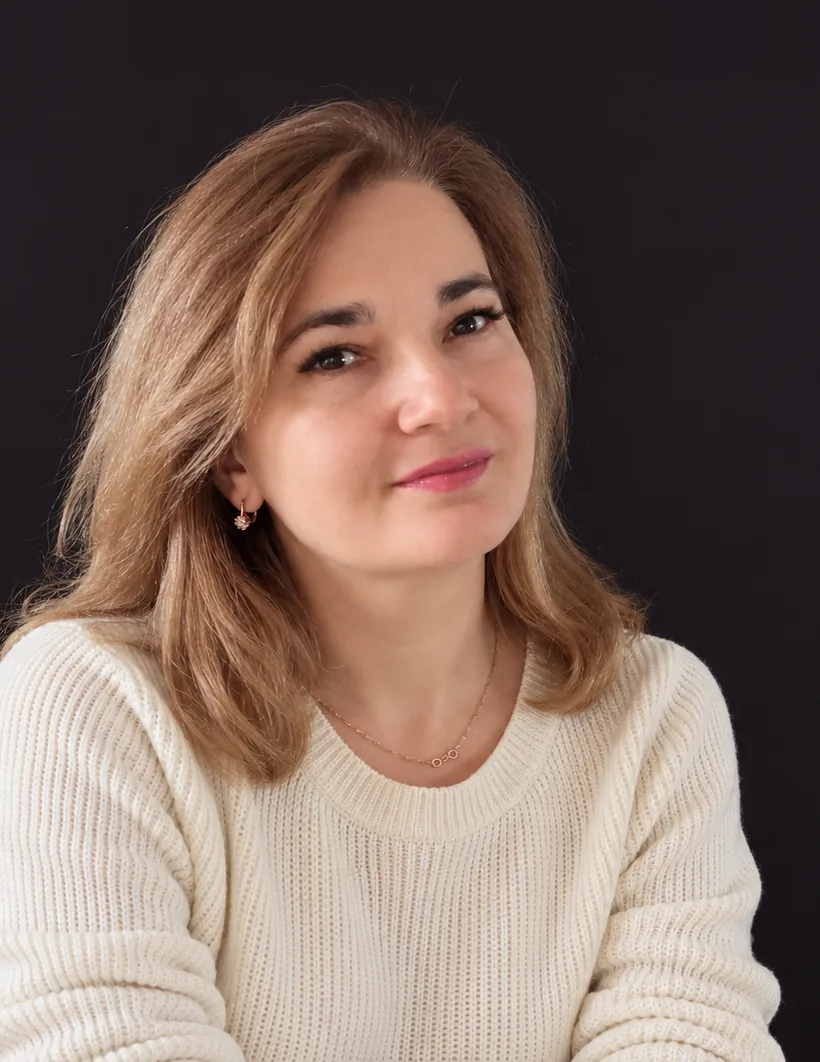
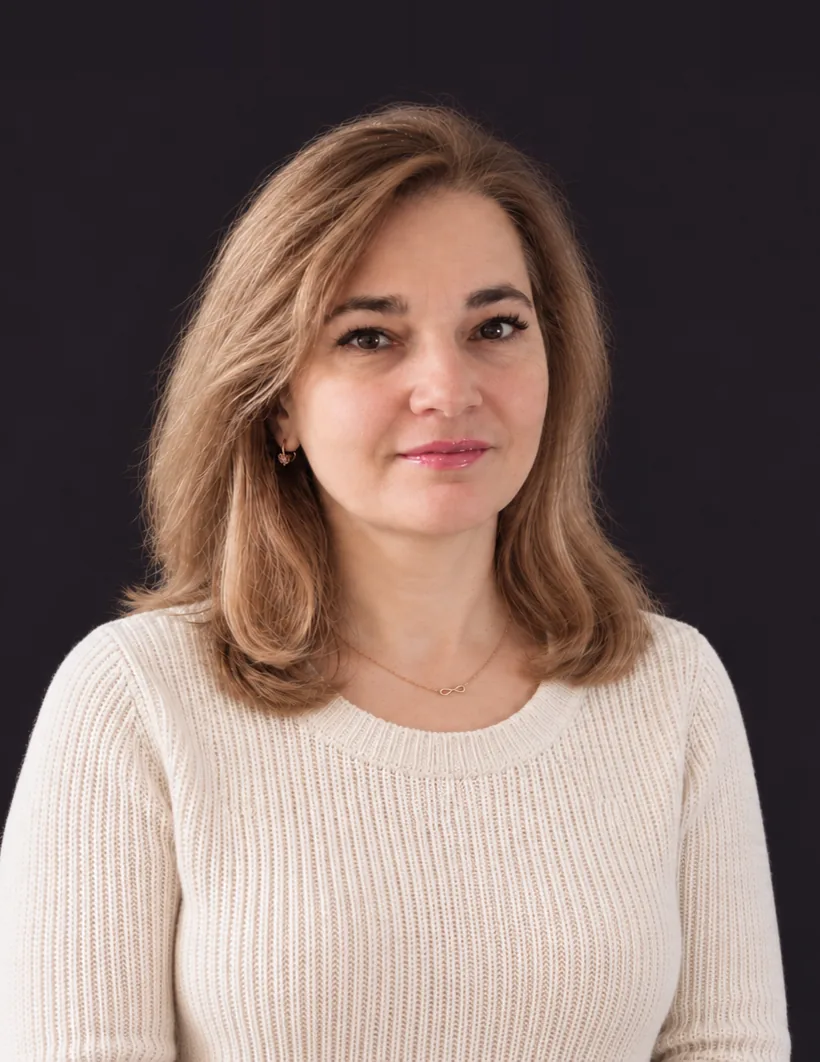
Обновление 03.10 15:37 МСК

diff --git a/index.html b/index.html
@@ -251,6 +251,22 @@
   @media (max-width: 520px) {
     #экран-1 .первый-экран__картинка { margin-bottom: -40vw !important; }
   }
+  /* 03.10.2026: планшет вертикально (521–899): лицо не должно попадать в затухание, кадр по центру, не шире 640 px */
+  @media (min-width: 521px) and (max-width: 899px) {
+    #экран-1 .первый-экран__картинка { width: min(70vw, 480px) !important; height: auto !important; aspect-ratio: 820 / 1062 !important; margin: 0 auto -3rem !important; padding: 3.5rem 0 0 !important; box-sizing: content-box !important; }
+    #экран-1 .первый-экран__картинка.картинка--край img { -webkit-mask-image: linear-gradient(180deg, transparent 0, #000 12%, #000 64%, rgba(0,0,0,.35) 82%, transparent 97%), linear-gradient(90deg, transparent 0, #000 12%, #000 88%, transparent 100%) !important; mask-image: linear-gradient(180deg, transparent 0, #000 12%, #000 64%, rgba(0,0,0,.35) 82%, transparent 97%), linear-gradient(90deg, transparent 0, #000 12%, #000 88%, transparent 100%) !important; -webkit-mask-composite: source-in; mask-composite: intersect; }
+  }
+  /* 03.10.2026: узкий компьютер и планшет лёжа (900–1279): кадр по ширине, чтобы свитер не заезжал под текст; сверху и справа растворяется */
+  @media (min-width: 900px) and (max-width: 1279px) {
+    #экран-1 .первый-экран__картинка { top: auto !important; bottom: 0 !important; left: 0 !important; width: calc(87vw - 44px) !important; height: auto !important; aspect-ratio: 1586 / 1142 !important; }
+    #экран-1 .первый-экран__картинка.картинка--край img { -webkit-mask-image: linear-gradient(90deg, #000 0, #000 66%, transparent 100%), linear-gradient(180deg, transparent 0, #000 12%) !important; mask-image: linear-gradient(90deg, #000 0, #000 66%, transparent 100%), linear-gradient(180deg, transparent 0, #000 12%) !important; -webkit-mask-composite: source-in; mask-composite: intersect; }
+  }
+  /* 03.10.2026: очень широкий монитор (от 1800): композиция собрана в центре на 1800 px, чтобы фигура и текст не разъезжались */
+  @media (min-width: 1800px) {
+    #экран-1 .первый-экран__картинка { left: calc((100vw - 1800px) / 2) !important; width: 1250px !important; }
+    #экран-1 .первый-экран__картинка.картинка--край img { -webkit-mask-image: linear-gradient(90deg, transparent 0, #000 8%, #000 60%, transparent 100%) !important; mask-image: linear-gradient(90deg, transparent 0, #000 8%, #000 60%, transparent 100%) !important; }
+    #экран-1 .блок__внутри { margin-right: calc((100vw - 1800px) / 2 + 4rem) !important; }
+  }
   /* 03.10.2026: запас для старых браузеров без color-mix (иначе фон первого экрана прозрачный) */
   @supports not (color: color-mix(in srgb, red, blue)) {
     #экран-1 { background: linear-gradient(115deg, var(--цвет-тёмный-фон) 0%, var(--цвет-тёмный-фон-3) 36%, var(--цвет-тёмный-фон-2) 100%) !important; }
